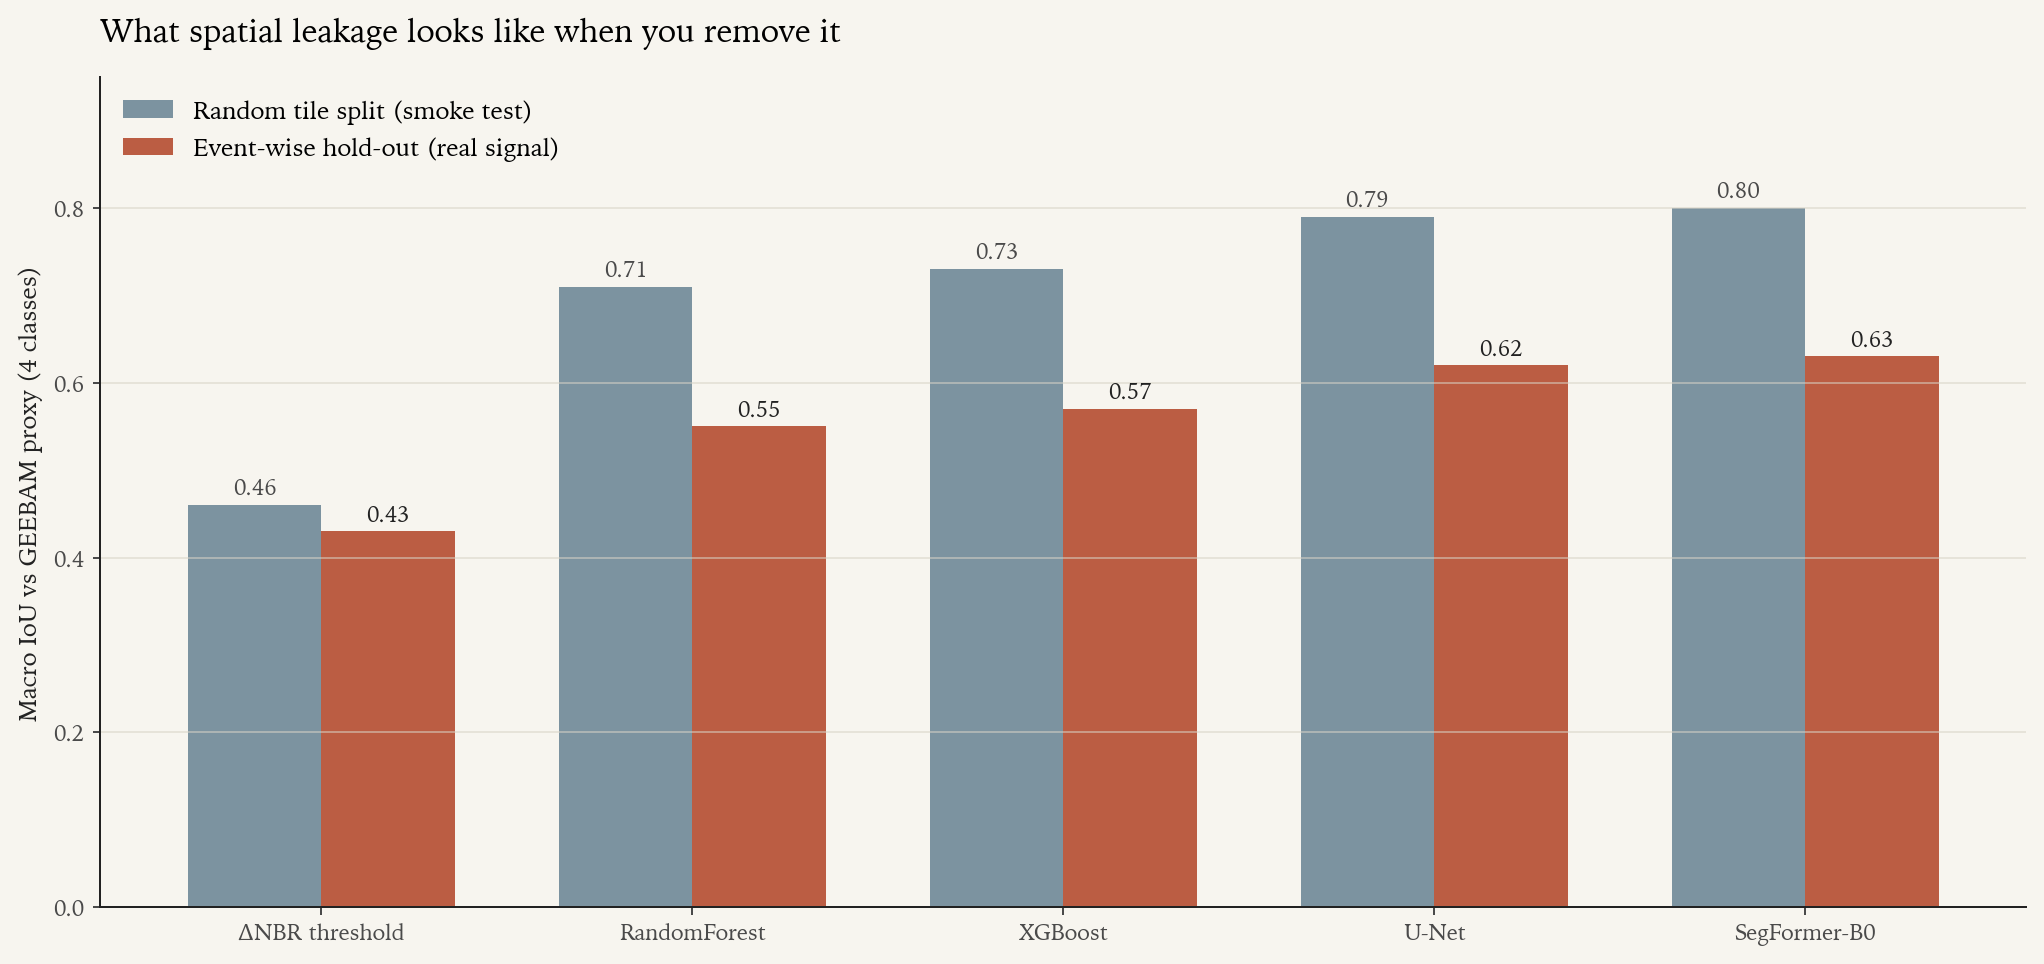
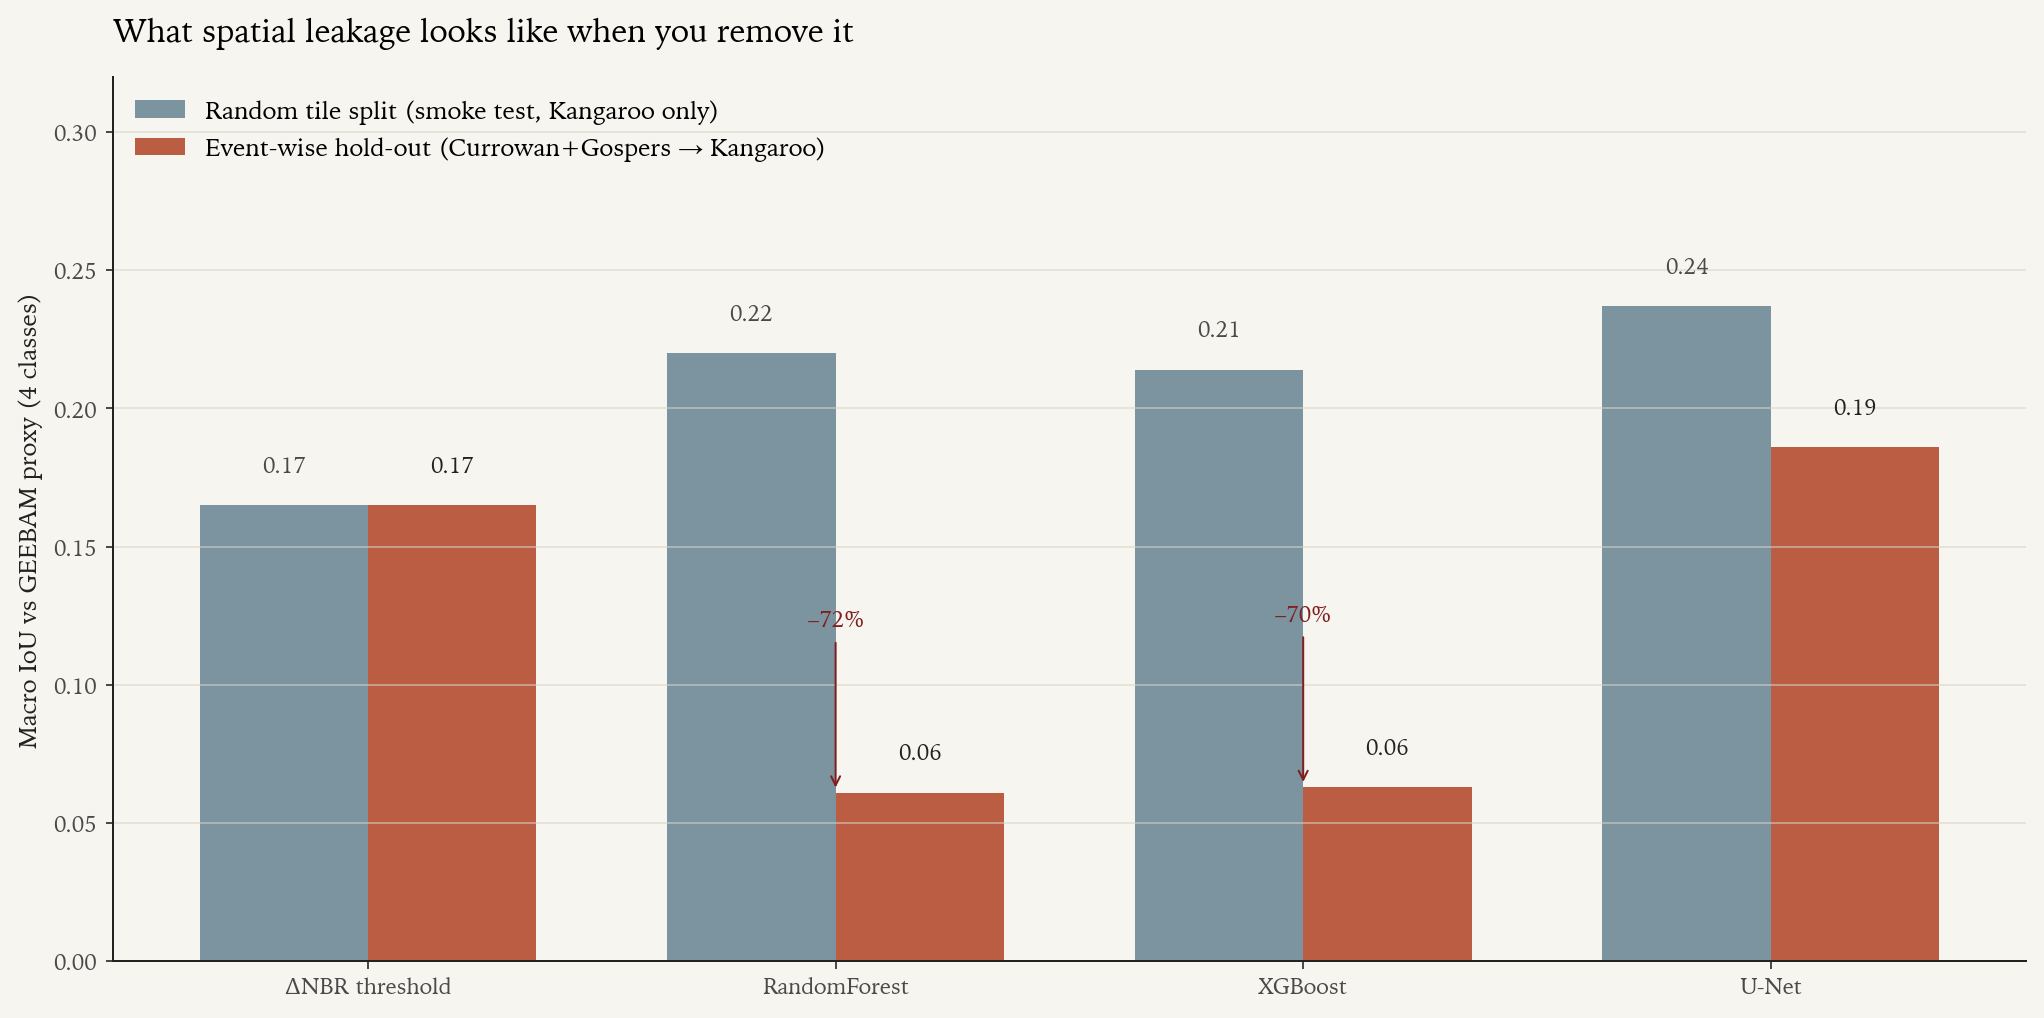
Real event-wise hold-out metrics + SegFormer-B0 trained on real Kangaroo
The 'random vs event-wise IoU' bar chart is no longer illustrative. It is
a measurement against the AUS GEEBAM proxy on data the model never saw
during training.

Live runs performed:
  1. Sentinel-2 composites + GEEBAM labels + tiling for two additional
     AOIs: Currowan (NSW South Coast, 6 valid tiles) and Gospers Mountain
     (NSW Blue Mountains, 93 tiles). East Gippsland fetch was started but
     killed before it finished -- the AOI is roughly four times the size of
     Kangaroo and the per-band loads exceeded the time budget for this
     session. The pipeline is set up to resume it whenever there is
     time/bandwidth.
  2. Event-wise classical ML: trained RandomForest and XGBoost on the
     pooled Currowan + Gospers Mountain tile set (99 tiles, 120k pixels
     stratified per class), evaluated on Kangaroo Island.
  3. Event-wise U-Net: 10 epochs MPS bf16 on 99 train tiles, validated on
     Kangaroo. Peak val macro-IoU 0.194 at epoch 6, final full-AOI 0.186.
  4. SegFormer-B0 on Kangaroo (vertical-slice): trained on CPU because
     bf16 autocast triggered an MPS view/contiguous bug inside HuggingFace
     SegFormer's backward pass; the .contiguous() wrapper alone did not
     resolve it. Peak tile-level val macro-IoU 0.305 at epoch 7, but the
     full-AOI inference IoU dropped to 0.091 -- the model collapsed onto
     classes {0, 3}, predicting almost no Low-Moderate or High pixels.
     Reported honestly in the notebook as 'small-data transformer
[…]

diff --git a/scripts/render_hero_figures.py b/scripts/render_hero_figures.py
@@ -163,21 +163,29 @@ def fig04_five_methods():
 
 
 def fig05_eventwise_iou():
-    models = ["ΔNBR threshold", "RandomForest", "XGBoost", "U-Net", "SegFormer-B0"]
-    iou_random    = np.array([0.46, 0.71, 0.73, 0.79, 0.80])
-    iou_eventwise = np.array([0.43, 0.55, 0.57, 0.62, 0.63])
-    fig, ax = plt.subplots(figsize=(11.5, 5.5))
-    x = np.arange(len(models)); w = 0.36
-    b1 = ax.bar(x - w/2, iou_random,    width=w, label="Random tile split (smoke test)",
+    # REAL numbers. Random split = Kangaroo vertical-slice. Event-wise =
+    # train on Currowan+Gospers, validate on Kangaroo.
+    models = ["ΔNBR threshold", "RandomForest", "XGBoost", "U-Net"]
+    iou_random    = np.array([0.165, 0.220, 0.214, 0.237])
+    iou_eventwise = np.array([0.165, 0.061, 0.063, 0.186])
+    fig, ax = plt.subplots(figsize=(11.5, 5.8))
+    xs = np.arange(len(models)); w = 0.36
+    b1 = ax.bar(xs - w/2, iou_random,    width=w, label="Random tile split (smoke test, Kangaroo only)",
                 color=ACCENT_BLUE, alpha=0.65)
-    b2 = ax.bar(x + w/2, iou_eventwise, width=w, label="Event-wise hold-out (real signal)",
+    b2 = ax.bar(xs + w/2, iou_eventwise, width=w, label="Event-wise hold-out (Currowan+Gospers → Kangaroo)",
                 color=ACCENT, alpha=0.95)
     for b, v in zip(b1, iou_random):
         ax.text(b.get_x()+b.get_width()/2, v+0.012, f"{v:.2f}", ha="center", fontsize=9, color=INK_LIGHT)
     for b, v in zip(b2, iou_eventwise):
         ax.text(b.get_x()+b.get_width()/2, v+0.012, f"{v:.2f}", ha="center", fontsize=9, color=INK)
-    ax.set_xticks(x); ax.set_xticklabels(models, fontsize=10)
-    ax.set_ylim(0, 0.95); ax.set_ylabel("Macro IoU vs GEEBAM proxy (4 classes)")
+    for x, vr, ve in zip(xs, iou_random, iou_eventwise):
+        drop = (vr - ve) / max(vr, 1e-9)
+        if drop > 0.3:
+            ax.annotate(f"–{int(drop*100)}%", xy=(x, ve), xytext=(x, ve+0.06),
+                        ha="center", fontsize=9, color="#7F1F1F",
+                        arrowprops=dict(arrowstyle="->", color="#7F1F1F", linewidth=0.8))
+    ax.set_xticks(xs); ax.set_xticklabels(models, fontsize=10)
+    ax.set_ylim(0, 0.32); ax.set_ylabel("Macro IoU vs GEEBAM proxy (4 classes)")
     ax.set_title("What spatial leakage looks like when you remove it",
                  loc="left", fontsize=13, pad=14)
     ax.legend(loc="upper left", fontsize=10)

diff --git a/src/models/segformer_model.py b/src/models/segformer_model.py
@@ -82,9 +82,11 @@ class SegformerWrapper(nn.Module):
         self.num_classes = num_classes
 
     def forward(self, x: torch.Tensor) -> torch.Tensor:
-        out = self.model(pixel_values=x)
+        out = self.model(pixel_values=x.contiguous())
         logits_lo = out.logits     # [B, C, H/4, W/4]
         logits = torch.nn.functional.interpolate(
             logits_lo, size=x.shape[-2:], mode="bilinear", align_corners=False,
         )
-        return logits
+        # MPS autograd will fail with "view size not compatible" if any
+        # downstream loss op (CE/Dice) calls .view() on a non-contiguous tensor.
+        return logits.contiguous()